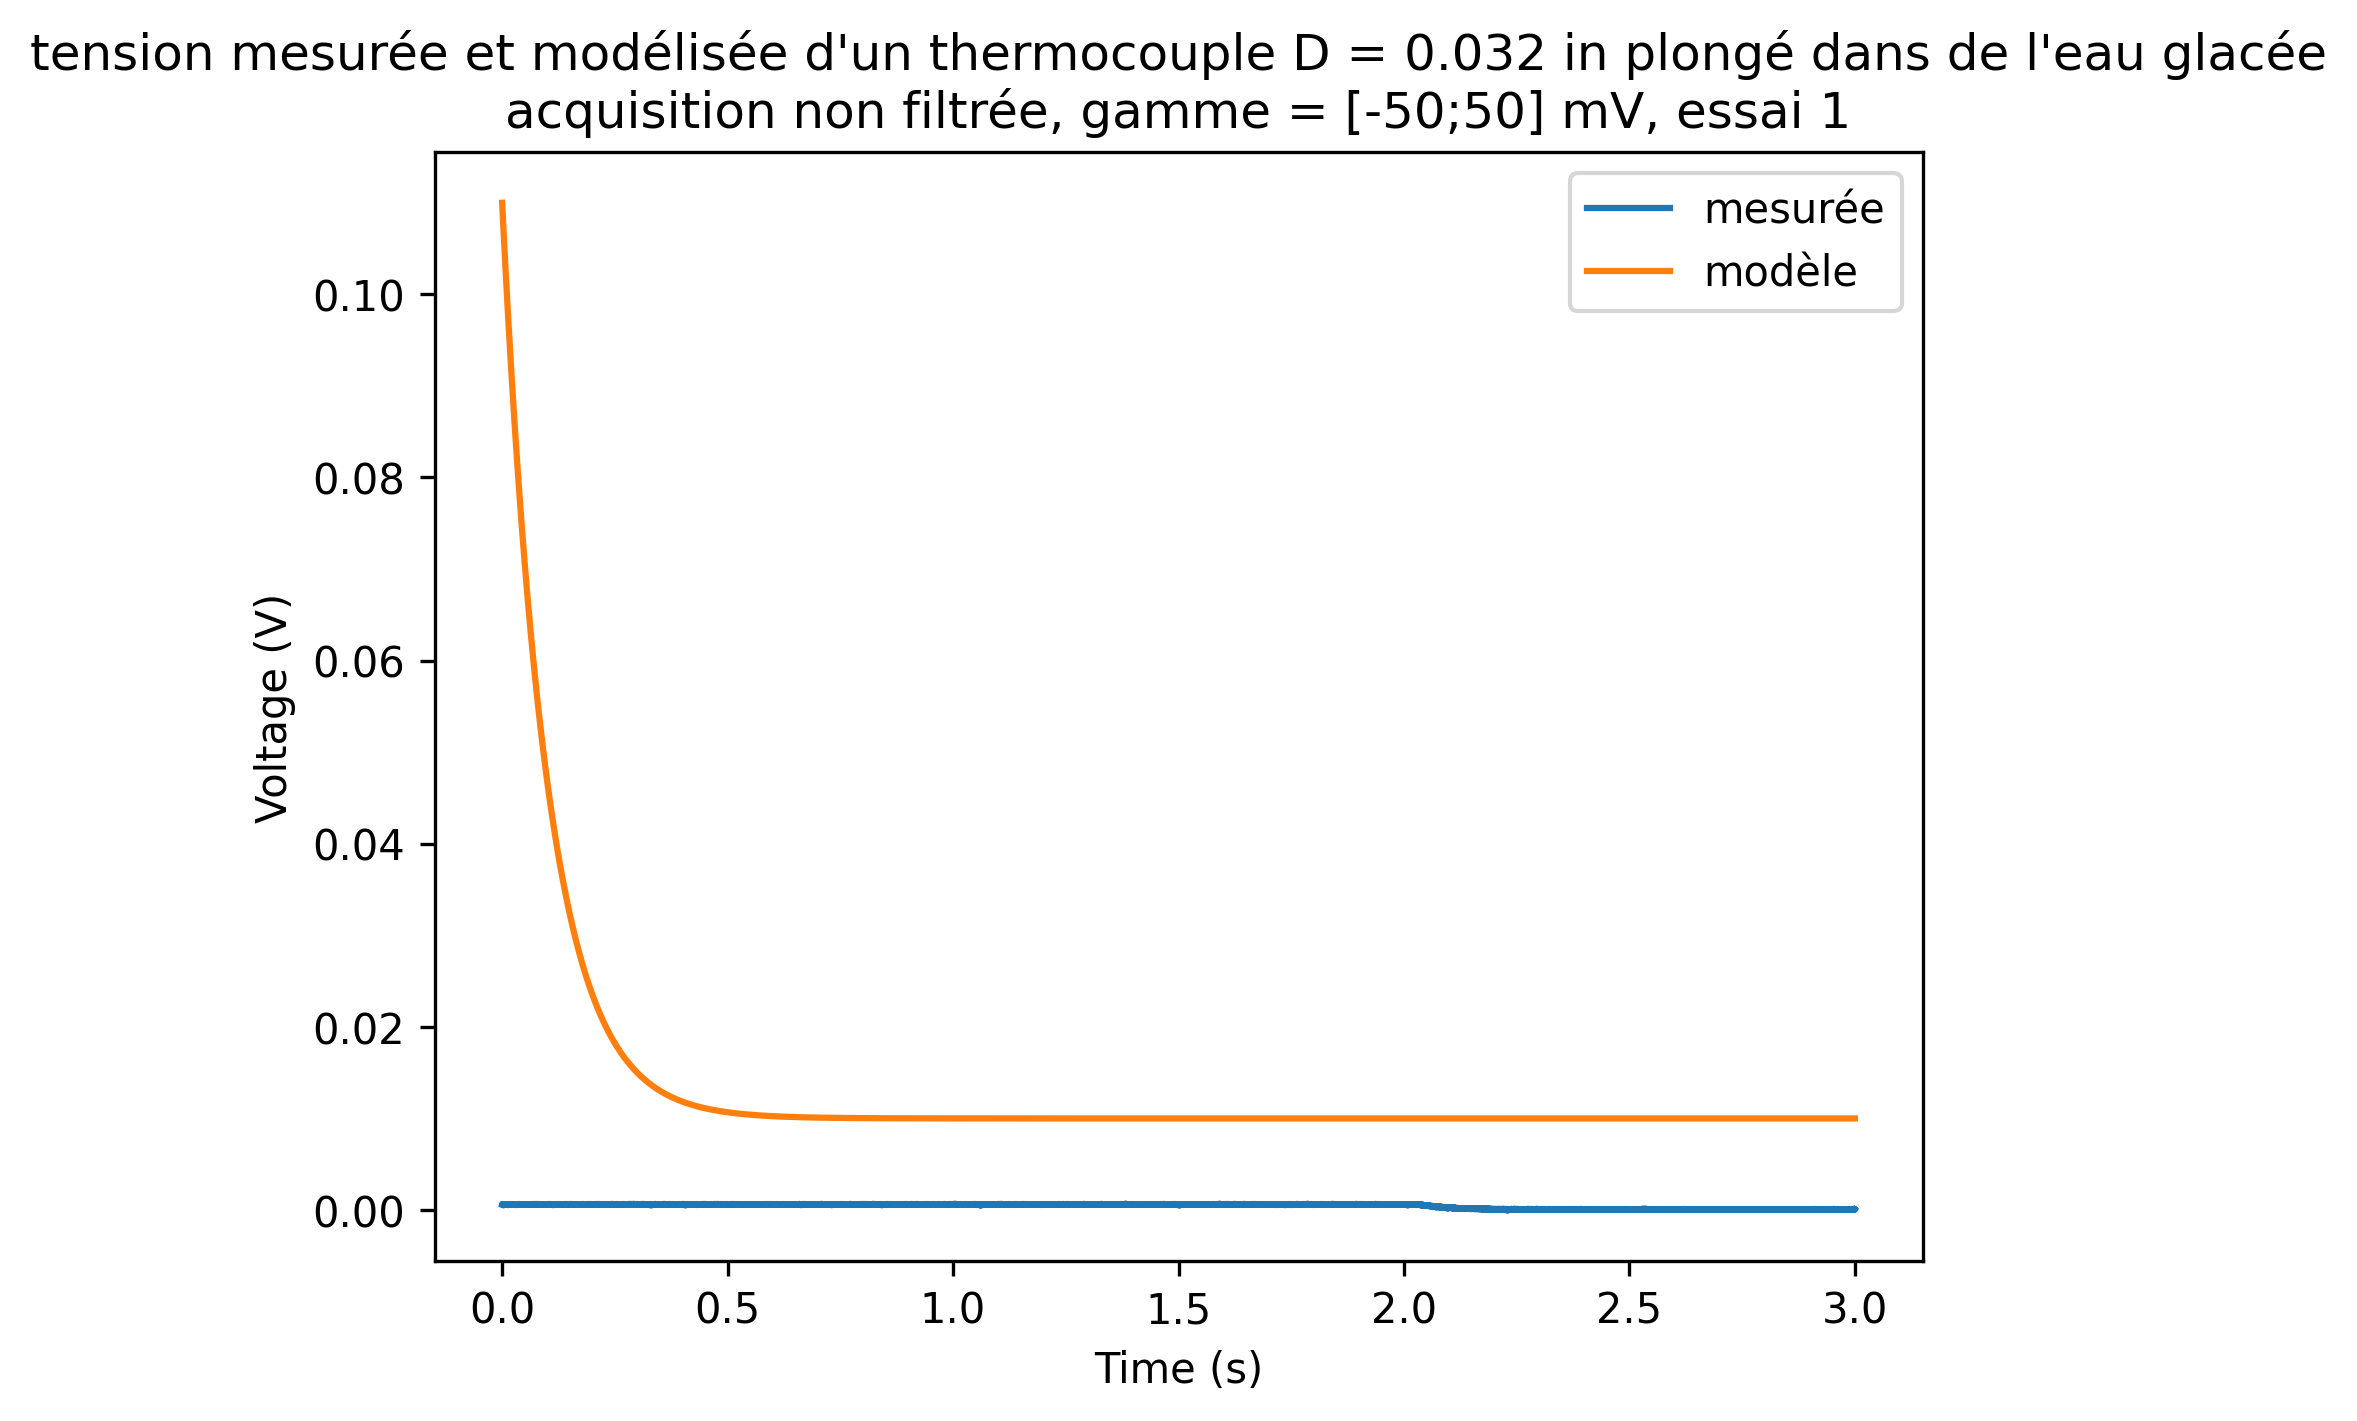
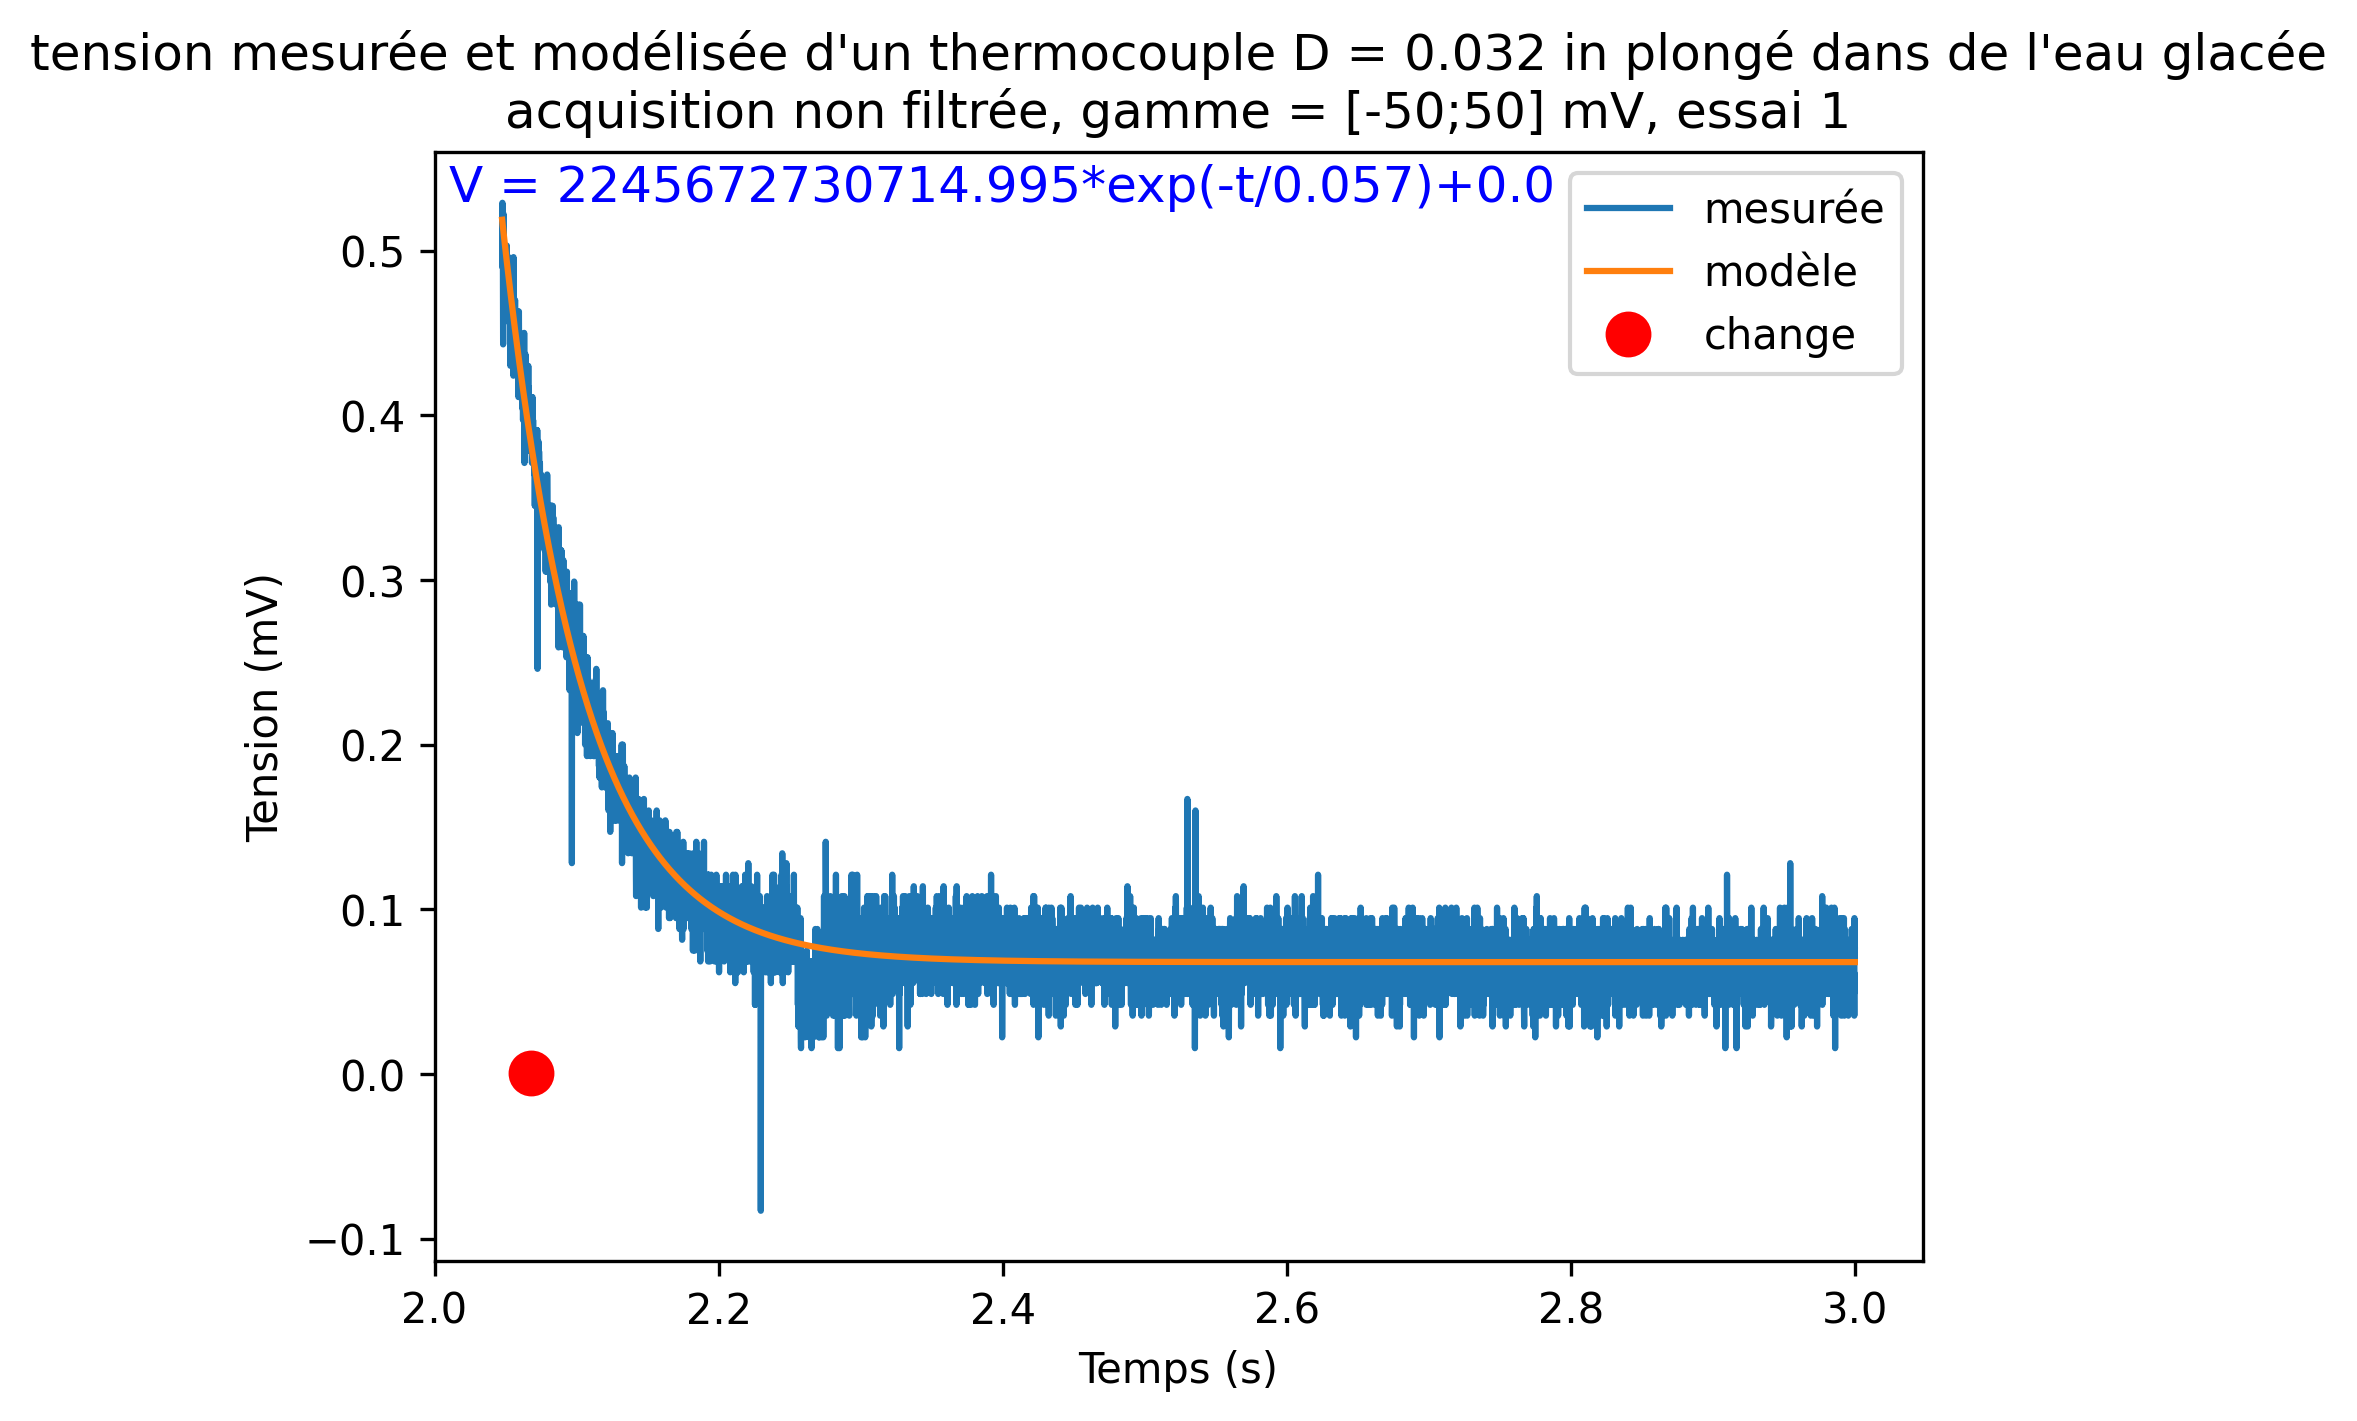
sensible reg

diff --git a/tp6/data_work/graph.py b/tp6/data_work/graph.py
@@ -1,9 +1,11 @@
-import lvm.lvm as lvm
 import matplotlib.pyplot as plt
 import numpy as np
 import os
 import pandas as pd
-from data_work.reg_coef import r_coef
+from data_work.actual_regression import do_regression
+from data_work.parsers import parse_name
+from data_work.parsers import parse_light_name
+from data_work.parsers import parse_data_file
 
 
 def temp_results():
@@ -35,55 +37,6 @@ def temp_data(path, action="get"):
     return reg_pkl
 
 
-def parse_name(filename):
-    parts = filename.split("_")
-    TC_size = parts[1]
-    try:
-        TC_size = float(TC_size) / 1000.0
-        TC_size = f"D = {TC_size} in"
-    except:
-        TC_size = "artisanal"
-    if parts[2] == "s":
-        filtre = "acquisition non filtrée"
-    else:
-        filtre = " acquisition filtrée"
-
-    if any("v" in part.lower() for part in parts):
-        if any("m" in part.lower() for part in parts):
-            gamme = "[-50;50] mV"
-        else:
-            gamme = "[-10;10] V"
-    else:
-        gamme = "[-50;50] mV"
-
-    try:
-        it = int(parts[-1])
-        it = f"essai {it}"
-    except:
-        it = "essai 1"
-
-    name = (
-        f"tension mesurée et modélisée d'un thermocouple {TC_size} plongé dans de l'eau glacée"
-        + "\n"
-        + f"{filtre}, gamme = {gamme}, {it}"
-    )
-    return name
-
-
-def parse_light_name(filename):
-    parts = filename.split("_")
-    TC_size = parts[1]
-    if any("v" in part.lower() for part in parts):
-        if any("m" in part.lower() for part in parts):
-            gamme = "[-50;50] mV"
-        else:
-            gamme = "[-10;10] V"
-    else:
-        gamme = "[-50;50] mV"
-
-    return f"{float(TC_size)/1000} in", gamme
-
-
 def regression(a, b, c):
     t = np.arange(0, 3, 0.0001)
     reg = a * np.exp(-1 * t / b) + c
@@ -91,29 +44,31 @@ def regression(a, b, c):
 
 
 def make_graph(path):
-    raw_df = lvm.parse_lvm(path)
-    df = raw_df.drop(columns=["Comment"], errors="ignore")
+    df = parse_data_file(path)
     fig, ax = plt.subplots()
     filename = os.path.splitext(os.path.basename(path))[0]
-    main_dir = os.path.abspath(os.path.join(os.getcwd()))
     graphname = parse_name(filename)
-    rc_df = r_coef(main_dir, "get")
-    if rc_df is not None:
-        a, b, c = (
-            rc_df.loc[f"{filename}.lvm", "a"],
-            rc_df.loc[f"{filename}.lvm", "b"],
-            rc_df.loc[f"{filename}.lvm", "c"],
-        )
-    else:
-        a, b, c = (0, 0, 0)
+    min = detect_min_deriv(df)
+    start = int(min[0] * 10000) - 200
+    a, b, c = do_regression(path, start)
     reg = regression(a, b, c)
-
-    ax.plot(df["X_Value"], df["Tension"], label="mesurée")
-    ax.plot(df["X_Value"], reg, label="modèle")
-    ax.set_xlabel("Time (s)")
-    ax.set_ylabel("Voltage (V)")
+    ax.plot(df["X_Value"][start:], df["Tension"][start:] * 1000, label="mesurée")
+    ax.plot(df["X_Value"][start:], reg[start:] * 1000, label="modèle")
+    ax.plot(min[0], min[1], "o", markersize=10, color="red", label="change")
+    ax.set_xlabel("Temps (s)")
+    ax.set_ylabel("Tension (mV)")
     ax.set_title(graphname)
     ax.legend()
+    ax.text(
+        x=0.01,
+        y=0.99,  # coordinates in axes fraction
+        s=f"V = {round(a,3)}*exp(-t/{round(b,3)})+{round(c,3)}",
+        transform=ax.transAxes,  # important: use axes coordinates
+        verticalalignment="top",
+        horizontalalignment="left",
+        fontsize=12,
+        color="blue",
+    )
 
     parent_dir = os.path.abspath(os.path.join(os.path.dirname(path), ".."))
     plot_dir = os.path.join(parent_dir, "graphs")
@@ -122,6 +77,18 @@ def make_graph(path):
     fig.savefig(save_path, dpi=300, bbox_inches="tight")
 
     return None
+
+
+def detect_min_deriv(df):
+    derivative = np.gradient(df["Tension"], df["X_Value"])
+    window = 100
+    weights = np.ones(window) / window
+    smoothed = np.convolve(derivative, weights, mode="same")
+
+    min_idx = np.argmin(smoothed)
+    x_at_min = df["X_Value"].iloc[min_idx]
+    y_at_min = df["Tension"].iloc[min_idx]
+    return x_at_min, y_at_min
 
 
 def make_tables(rc_df, path):

diff --git a/tp6/data_work/parsers.py b/tp6/data_work/parsers.py
@@ -1,0 +1,56 @@
+import lvm.lvm as lvm
+
+
+def parse_name(filename):
+    parts = filename.split("_")
+    TC_size = parts[1]
+    try:
+        TC_size = float(TC_size) / 1000.0
+        TC_size = f"D = {TC_size} in"
+    except:
+        TC_size = "artisanal"
+    if parts[2] == "s":
+        filtre = "acquisition non filtrée"
+    else:
+        filtre = " acquisition filtrée"
+
+    if any("v" in part.lower() for part in parts):
+        if any("m" in part.lower() for part in parts):
+            gamme = "[-50;50] mV"
+        else:
+            gamme = "[-10;10] V"
+    else:
+        gamme = "[-50;50] mV"
+
+    try:
+        it = int(parts[-1])
+        it = f"essai {it}"
+    except:
+        it = "essai 1"
+
+    name = (
+        f"tension mesurée et modélisée d'un thermocouple {TC_size} plongé dans de l'eau glacée"
+        + "\n"
+        + f"{filtre}, gamme = {gamme}, {it}"
+    )
+    return name
+
+
+def parse_light_name(filename):
+    parts = filename.split("_")
+    TC_size = parts[1]
+    if any("v" in part.lower() for part in parts):
+        if any("m" in part.lower() for part in parts):
+            gamme = "[-50;50] mV"
+        else:
+            gamme = "[-10;10] V"
+    else:
+        gamme = "[-50;50] mV"
+
+    return f"{float(TC_size)/1000} in", gamme
+
+
+def parse_data_file(path):
+    raw_df = lvm.parse_lvm(path)
+    df = raw_df.drop(columns=["Comment"], errors="ignore")
+    return df

diff --git a/tp6/data_work/actual_regression.py b/tp6/data_work/actual_regression.py
@@ -1,0 +1,16 @@
+import numpy as np
+from scipy.optimize import curve_fit
+from data_work.parsers import parse_data_file
+
+
+def model(t, a, b, c):
+    return a * np.exp(-1 * t / b) + c
+
+
+def do_regression(path, start):
+    df = parse_data_file(path)
+    df = df[start:]
+    print("doing regression")
+    x, y = df["X_Value"], df["Tension"]
+    params, _ = curve_fit(model, x, y, maxfev=3000)
+    return params
